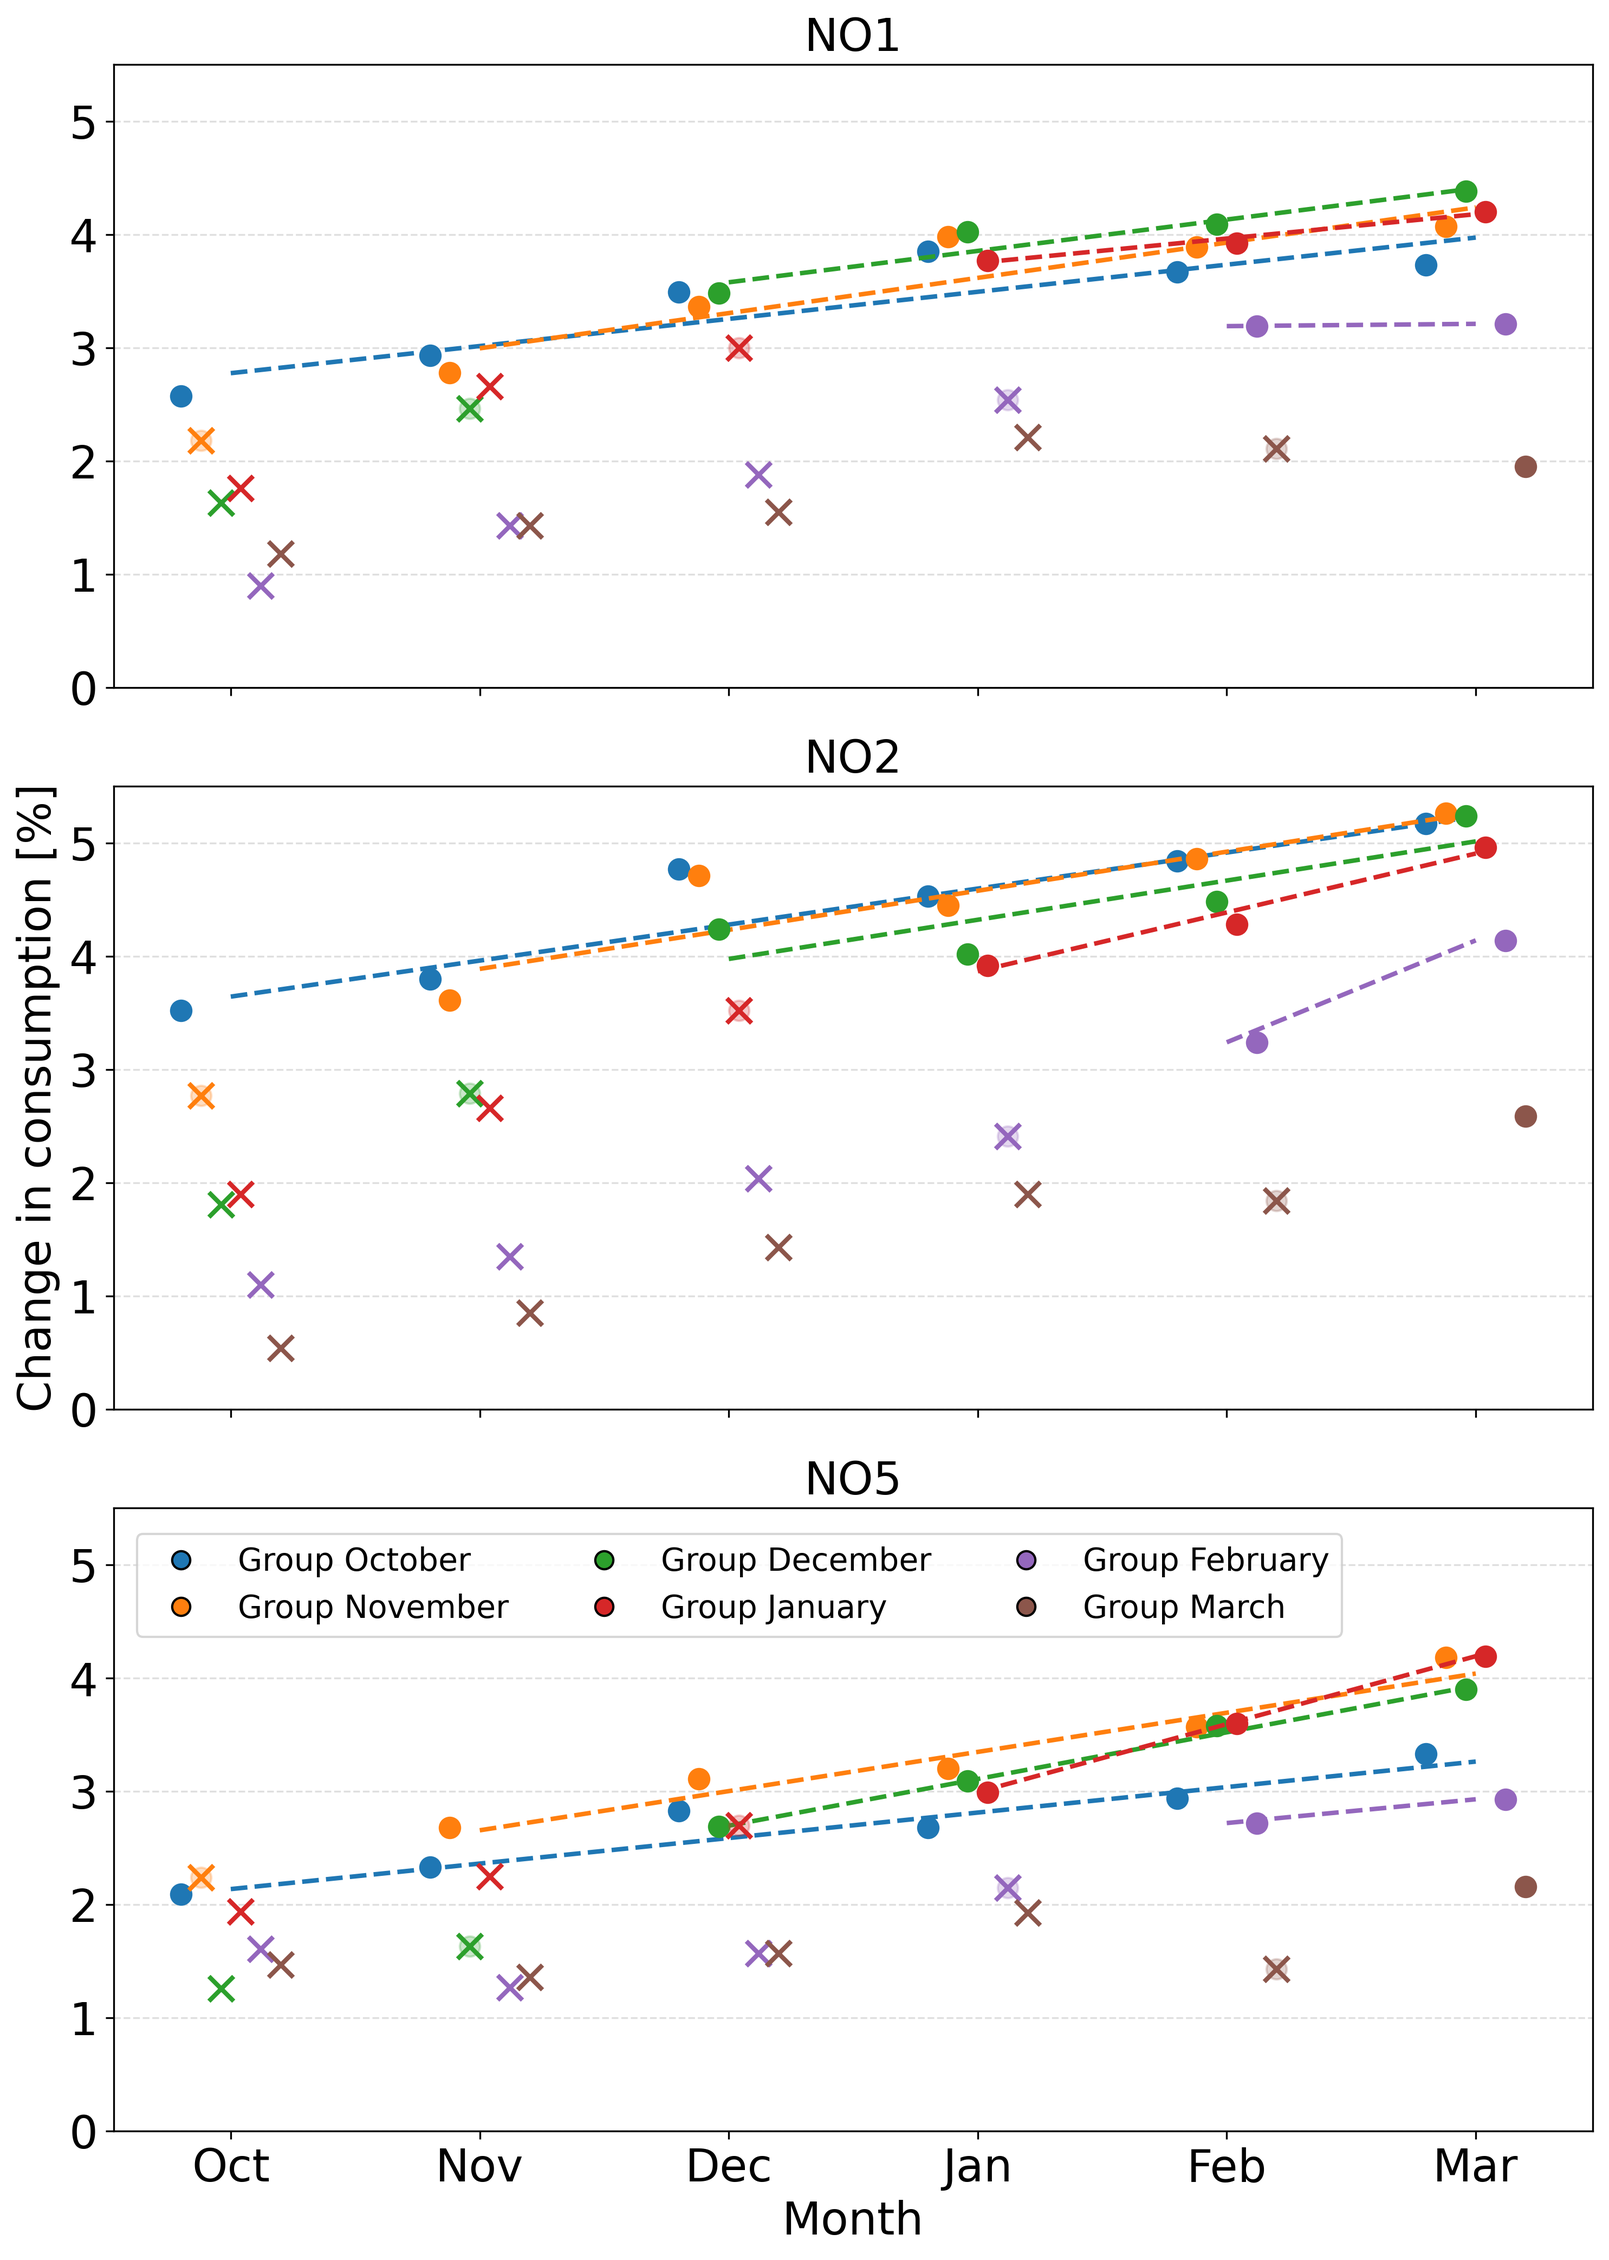
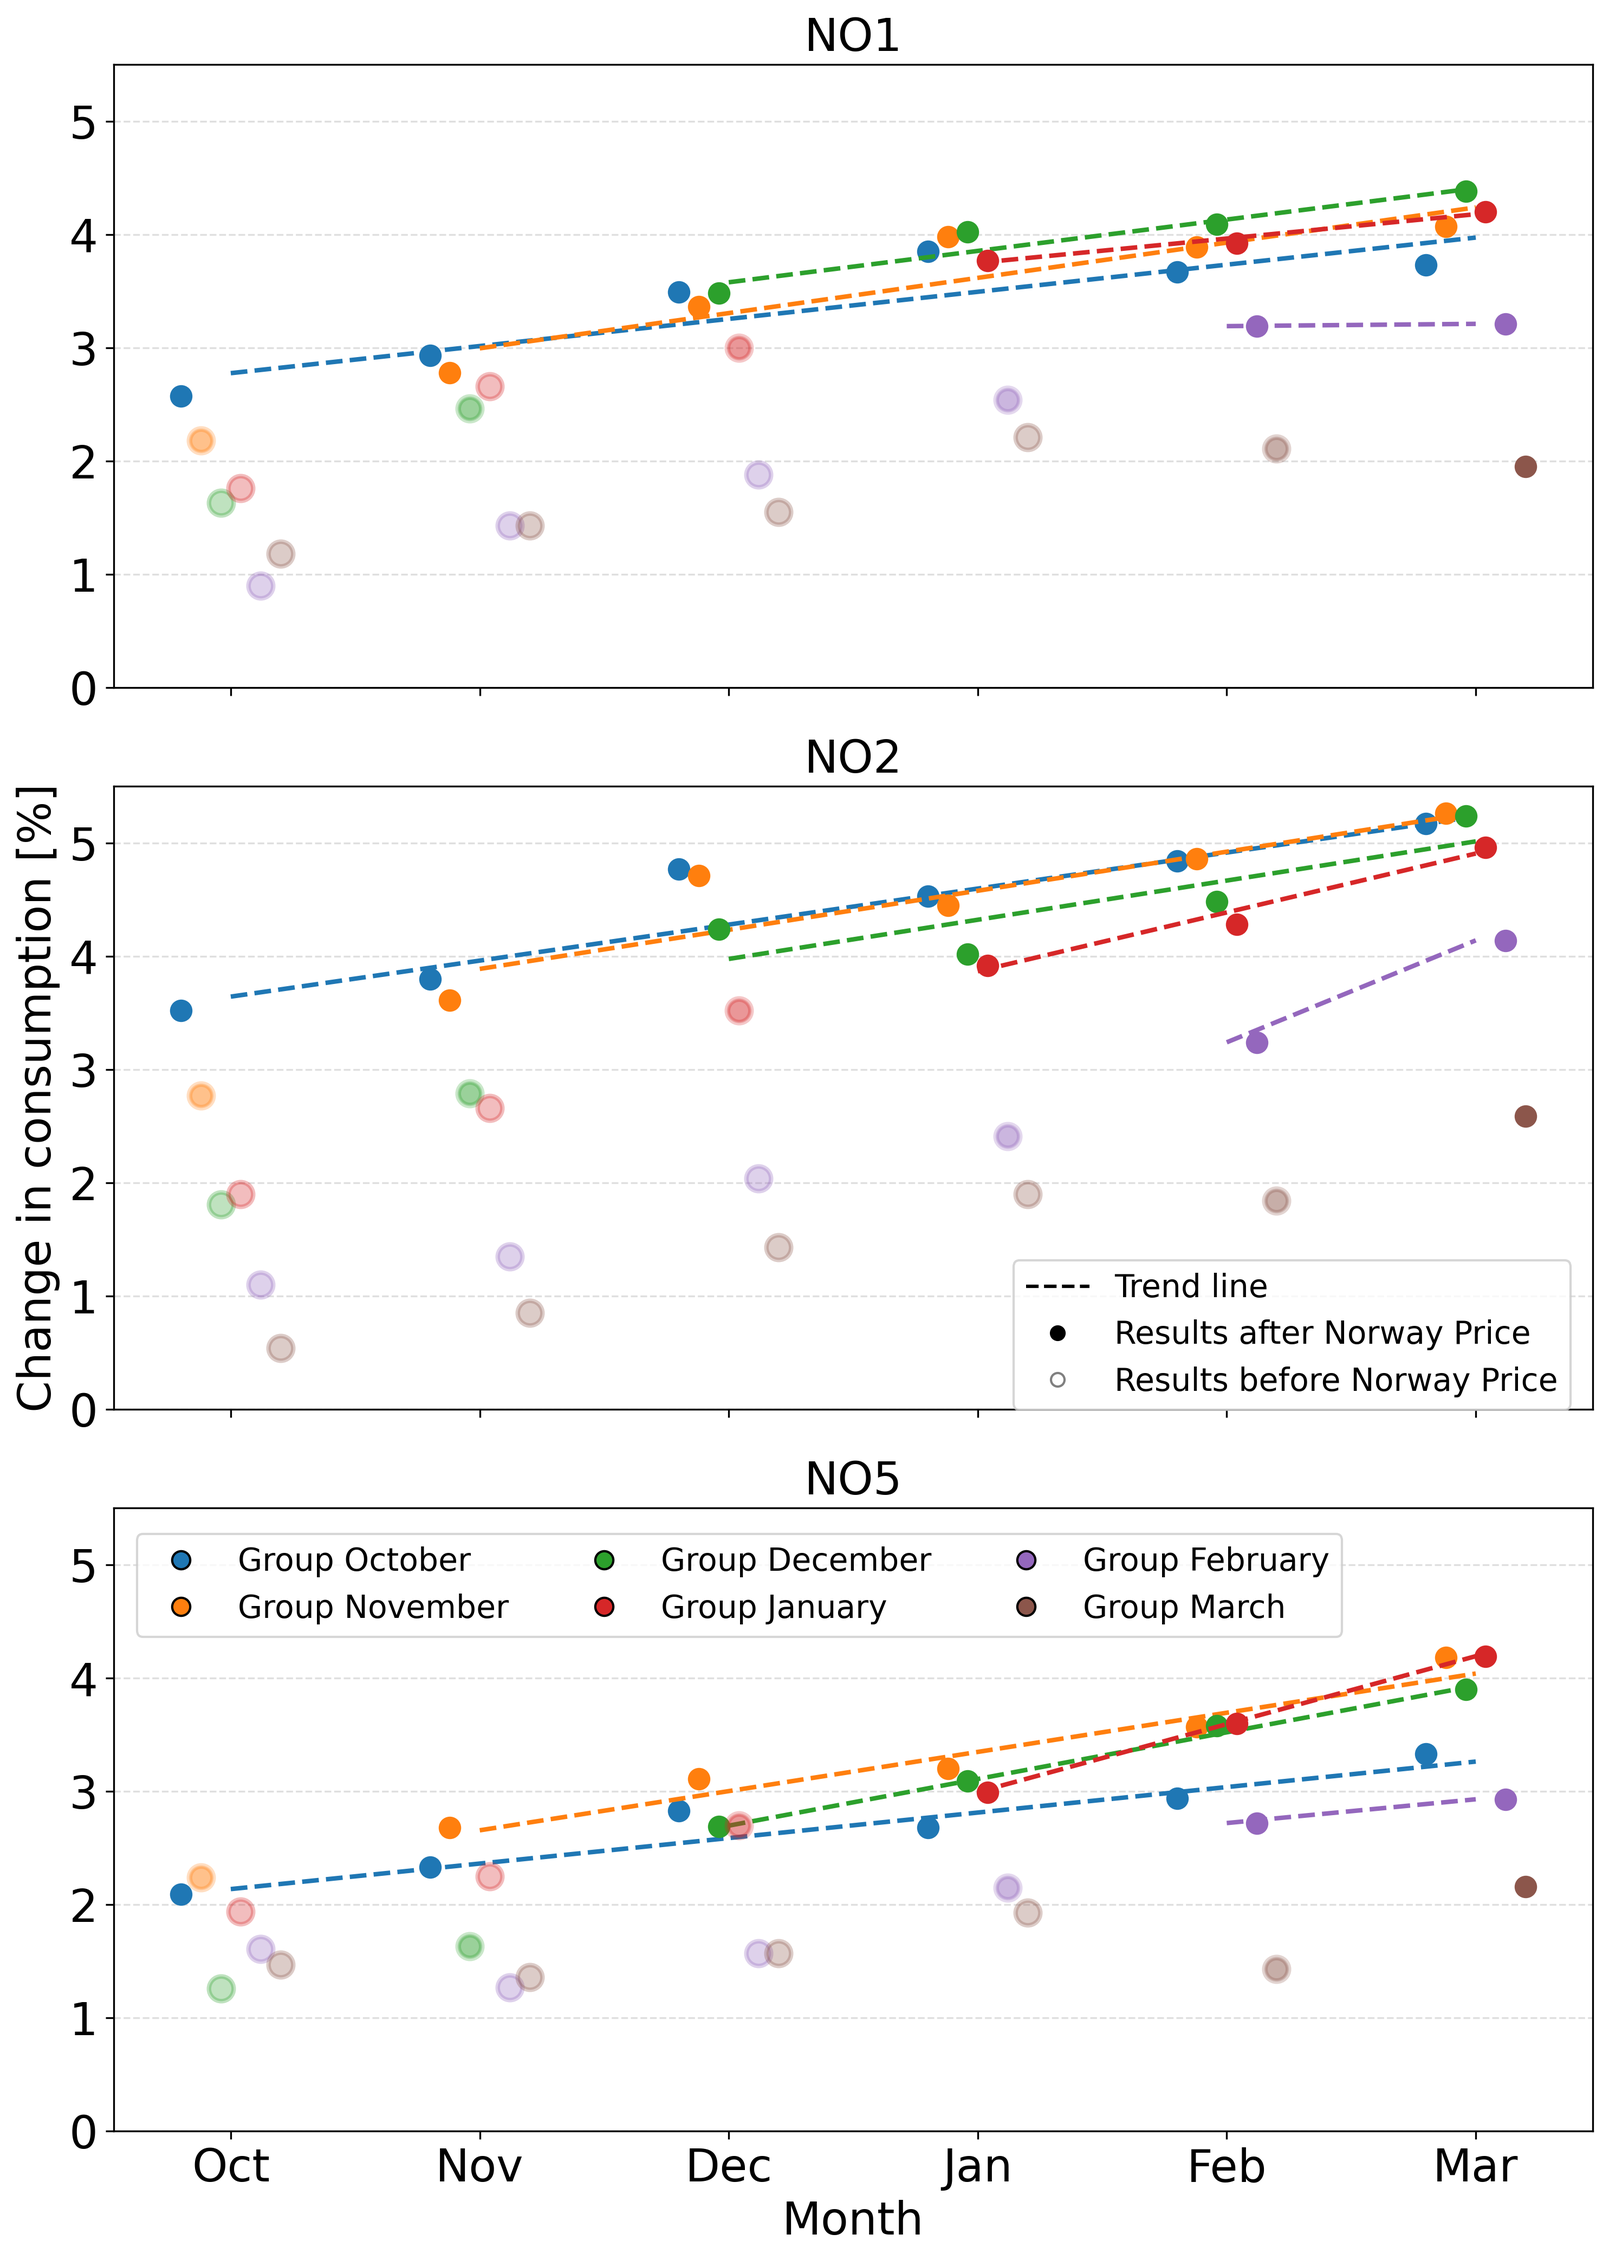
potla

diff --git a/figur_utvikling_sammen_Test.py b/figur_utvikling_sammen_Test.py
@@ -146,16 +146,17 @@ def plot_all(NO1, NO2, NO5, masks1, masks2, masks5):
                             marker='o',
                             color=colors[i],
                             s=80,
-                            alpha=0.25,
+                            alpha=0.3,
                             zorder=2
                             #label=labels[i]
                         )
 
                         ax.scatter(
                             xi[k], y[k],
-                            marker='x',
+                            marker='o',
                             color=colors[i],
                             s=120,
+                            alpha=0.25,
                             linewidths=2,
                             zorder=3
                         #label=label_i
@@ -166,9 +167,10 @@ def plot_all(NO1, NO2, NO5, masks1, masks2, masks5):
 
                         ax.scatter(
                             xi[k], y[k],
-                            marker='x',
+                            marker='o',
                             color=colors[i],
                             s=120,
+                            alpha=0.3,
                             linewidths=2,
                             zorder=3
                             #label=labels[i]
@@ -222,6 +224,7 @@ def plot_all(NO1, NO2, NO5, masks1, masks2, masks5):
     colors = sns.color_palette("tab10", len(labels))
 
     custom_handles = [
+
         Line2D([0], [0],
                marker='o',
                color='none',
@@ -236,6 +239,21 @@ def plot_all(NO1, NO2, NO5, masks1, masks2, masks5):
         loc="center",
         bbox_to_anchor=(0.46, 0.3),
         ncol=3,
+        fontsize=14
+    )
+
+    custom_handles = [
+        Line2D([0], [0], linestyle='--', color='black', label='Trend line'),
+        Line2D([0], [0], marker='o', color='black', linestyle='None', label='Results after Norway Price'),
+        Line2D([0], [0], marker='o', color='gray', markerfacecolor='none',
+               linestyle='None', label='Results before Norway Price')
+    ]
+
+    fig.legend(
+        handles=custom_handles,
+        loc="center",
+        bbox_to_anchor=(0.8, 0.41),
+        ncol=1,
         fontsize=14
     )
 

diff --git a/plotting/plotte_priser(S).py b/plotting/plotte_priser(S).py
@@ -69,6 +69,8 @@ df["Spotpris_NOK_MWh"] = clean_number_series(df["Spotpris_NOK_MWh"])
 # Lag datetime
 df["Datetime"] = parse_datetime(df["Dato"], df["Time"])
 
+
+
 # Normaliser prissonenavn
 df["Prissone"] = df["Prissone"].astype(str).str.strip()
 
@@ -129,6 +131,31 @@ for i, zone in enumerate(selected):
 ax.set_xlabel("Year")
 ax.set_ylabel("NOK/kWh")
 ax.legend(title="Price Zone", ncols=5)
+
+
+# ===================== MÅNEDLIG GJENNOMSNITT FEB & MAR 2026 ==================
+
+# Lag kolonner for år og måned
+df["Year"] = df["Datetime"].dt.year
+df["Month"] = df["Datetime"].dt.month
+
+# Filtrer for februar og mars 2026
+df_2026 = df[(df["Year"] == 2026) & (df["Month"].isin([2, 3]))]
+
+# Beregn gjennomsnitt per prissone og måned
+monthly_avg = (
+    df_2026.groupby(["Prissone", "Year", "Month"], as_index=False)
+    .agg({"Spotpris_NOK_kWh": "mean"})
+)
+
+# Sorter for pen utskrift
+monthly_avg = monthly_avg.sort_values(["Month", "Prissone"])
+
+# Print resultat
+print("\n--- Gjennomsnittlig spotpris per måned (NOK/kWh) ---")
+for _, row in monthly_avg.iterrows():
+    month_name = "February" if row["Month"] == 2 else "March"
+    print(f"{row['Prissone']} | {month_name} 2026: {row['Spotpris_NOK_kWh']:.4f} NOK/kWh")
 
 fig.autofmt_xdate()
 plt.tight_layout()
